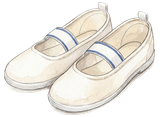
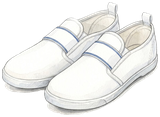
Indoor shoes redrawn again: the white canvas covers the whole top of the foot (no open top), one elastic band across the instep, no laces (BUILD 1106083223)

diff --git a/index.html b/index.html
@@ -119,14 +119,14 @@ body,button{word-break:keep-all;overflow-wrap:break-word}
 <div id="fader"></div>
 <script>
 // same address, newest version: if the page this phone has kept is older than the one online, fetch the new one and reopen
-const BUILD='1105224041';
+const BUILD='1106083223';
 try{fetch(location.pathname,{cache:'no-store'}).then(r=>r.text()).then(t=>{const m=t.match(/const BUILD='(\d+)'/);if(m&&m[1]!==BUILD&&sessionStorage.getItem('upd')!==m[1]){sessionStorage.setItem('upd',m[1]);fetch(location.pathname,{cache:'reload'}).then(()=>location.reload())}}).catch(()=>{})}catch(e){}
 </script>
-<script src="i18n.js?v=1105224041"></script>
-<script src="i18n_prologue_v2.js?v=1105224041"></script>
-<script src="day2/i18n_engine.js?v=1105224041"></script>
-<script src="day2/data.js?v=1105224041"></script>
-<script src="day3/data.js?v=1105224041"></script>
+<script src="i18n.js?v=1106083223"></script>
+<script src="i18n_prologue_v2.js?v=1106083223"></script>
+<script src="day2/i18n_engine.js?v=1106083223"></script>
+<script src="day2/data.js?v=1106083223"></script>
+<script src="day3/data.js?v=1106083223"></script>
 <script>
 // ---------- data ----------
 const MW=1672,MH=941,KID=180;
@@ -545,30 +545,30 @@ function pickHero(){const m=document.getElementById('modal'),c=document.getEleme
  c.innerHTML=`<h2>${tr('전학생 반장되기')}</h2><p>${tr('말 한마디 못 하는 전학생,<br>반장 선거에 나가다.')}</p><p style="margin-top:14px">${tr('누구로 할까요?')}</p>${(()=>{const s=loadSave();return s&&s.day>=2&&s.mode===UI+'-'+LANG?`<p><button class="big" id="cont">${tr('{n}일차부터 이어 하기').replace('{n}',s.day)}</button></p>`:''})()}<div class="pick heroes"><button data-h="hero_f"><img src="faces/hero_f_smile.jpg" alt="여자 주인공">${heroName(1)}</button><button data-h="hero_m"><img src="faces/hero_m_smile.jpg" alt="남자 주인공">${heroName(0)}</button></div>`;
  m.classList.add('on');{const cb=document.getElementById('cont');if(cb)cb.onclick=()=>{const s=loadSave();HERO=s.hero;Object.assign(HEART,s.heart||{});(s.found||[]).forEach(k=>FOUND.add(k));HEART_D1={...HEART};chime();(typeof contGame==='function'?contGame(s):startDay(Math.min(s.day,Object.keys(window.D3||{}).length?3:2)))}}c.querySelectorAll('.pick button').forEach(b=>b.onclick=()=>{HERO=b.dataset.h;m.classList.remove('on');chime();bgm('day');load('home_am');say([['nar','','이사 온 다음 날 아침. 아직 풀지 못한 상자들이 쌓여 있다.'],['think','sad','(오늘부터 새 학교야. 여기 말도 아직 서툰데…….)'],['think','smile','({m}한테 인사하고 학교 가야지.)']],morning)})}
 </script>
-<script src="day2/engine.js?v=1105224041"></script>
-<script src="day2/ep_minho.js?v=1105224041"></script>
-<script src="day2/meet.js?v=1105224041"></script>
-<script src="day2/ep_sua.js?v=1105224041"></script>
-<script src="day2/ep_hangyeol.js?v=1105224041"></script>
-<script src="day2/ep_siwoo.js?v=1105224041"></script>
-<script src="day2/ep_haram.js?v=1105224041"></script>
-<script src="day2/ep_jiho.js?v=1105224041"></script>
-<script src="day2/ep_hyeeun.js?v=1105224041"></script>
-<script src="day2/ep_haneul.js?v=1105224041"></script>
-<script src="day2/ep_junho.js?v=1105224041"></script>
-<script src="day2/ep_yuna.js?v=1105224041"></script>
-<script src="day2/ep_yena.js?v=1105224041"></script>
-<script src="day2/ep_haeun.js?v=1105224041"></script>
-<script src="day2/ep_youngmin.js?v=1105224041"></script>
-<script src="day2/ep_seah.js?v=1105224041"></script>
-<script src="day2/ep_jihoon.js?v=1105224041"></script>
-<script src="words_ja_ru.js?v=1105224041"></script>
-<script src="day2/mybag.js?v=1105224041"></script>
-<script src="day2/wordpics.js?v=1105224041"></script>
-<script src="day2/spots.js?v=1105224041"></script>
-<script src="day2/textfit.js?v=1105224041"></script>
-<script src="day2/tester.js?v=1105224041"></script>
-<script src="day2/ux.js?v=1105224041"></script>
+<script src="day2/engine.js?v=1106083223"></script>
+<script src="day2/ep_minho.js?v=1106083223"></script>
+<script src="day2/meet.js?v=1106083223"></script>
+<script src="day2/ep_sua.js?v=1106083223"></script>
+<script src="day2/ep_hangyeol.js?v=1106083223"></script>
+<script src="day2/ep_siwoo.js?v=1106083223"></script>
+<script src="day2/ep_haram.js?v=1106083223"></script>
+<script src="day2/ep_jiho.js?v=1106083223"></script>
+<script src="day2/ep_hyeeun.js?v=1106083223"></script>
+<script src="day2/ep_haneul.js?v=1106083223"></script>
+<script src="day2/ep_junho.js?v=1106083223"></script>
+<script src="day2/ep_yuna.js?v=1106083223"></script>
+<script src="day2/ep_yena.js?v=1106083223"></script>
+<script src="day2/ep_haeun.js?v=1106083223"></script>
+<script src="day2/ep_youngmin.js?v=1106083223"></script>
+<script src="day2/ep_seah.js?v=1106083223"></script>
+<script src="day2/ep_jihoon.js?v=1106083223"></script>
+<script src="words_ja_ru.js?v=1106083223"></script>
+<script src="day2/mybag.js?v=1106083223"></script>
+<script src="day2/wordpics.js?v=1106083223"></script>
+<script src="day2/spots.js?v=1106083223"></script>
+<script src="day2/textfit.js?v=1106083223"></script>
+<script src="day2/tester.js?v=1106083223"></script>
+<script src="day2/ux.js?v=1106083223"></script>
 <script>
 // the goal shows big for a few seconds, then folds into a small pill (tap it to open it again)
 {const g=document.getElementById('goal');let t=null;const big=()=>{g.classList.remove('mini');clearTimeout(t);t=setTimeout(()=>g.classList.add('mini'),4000)};
